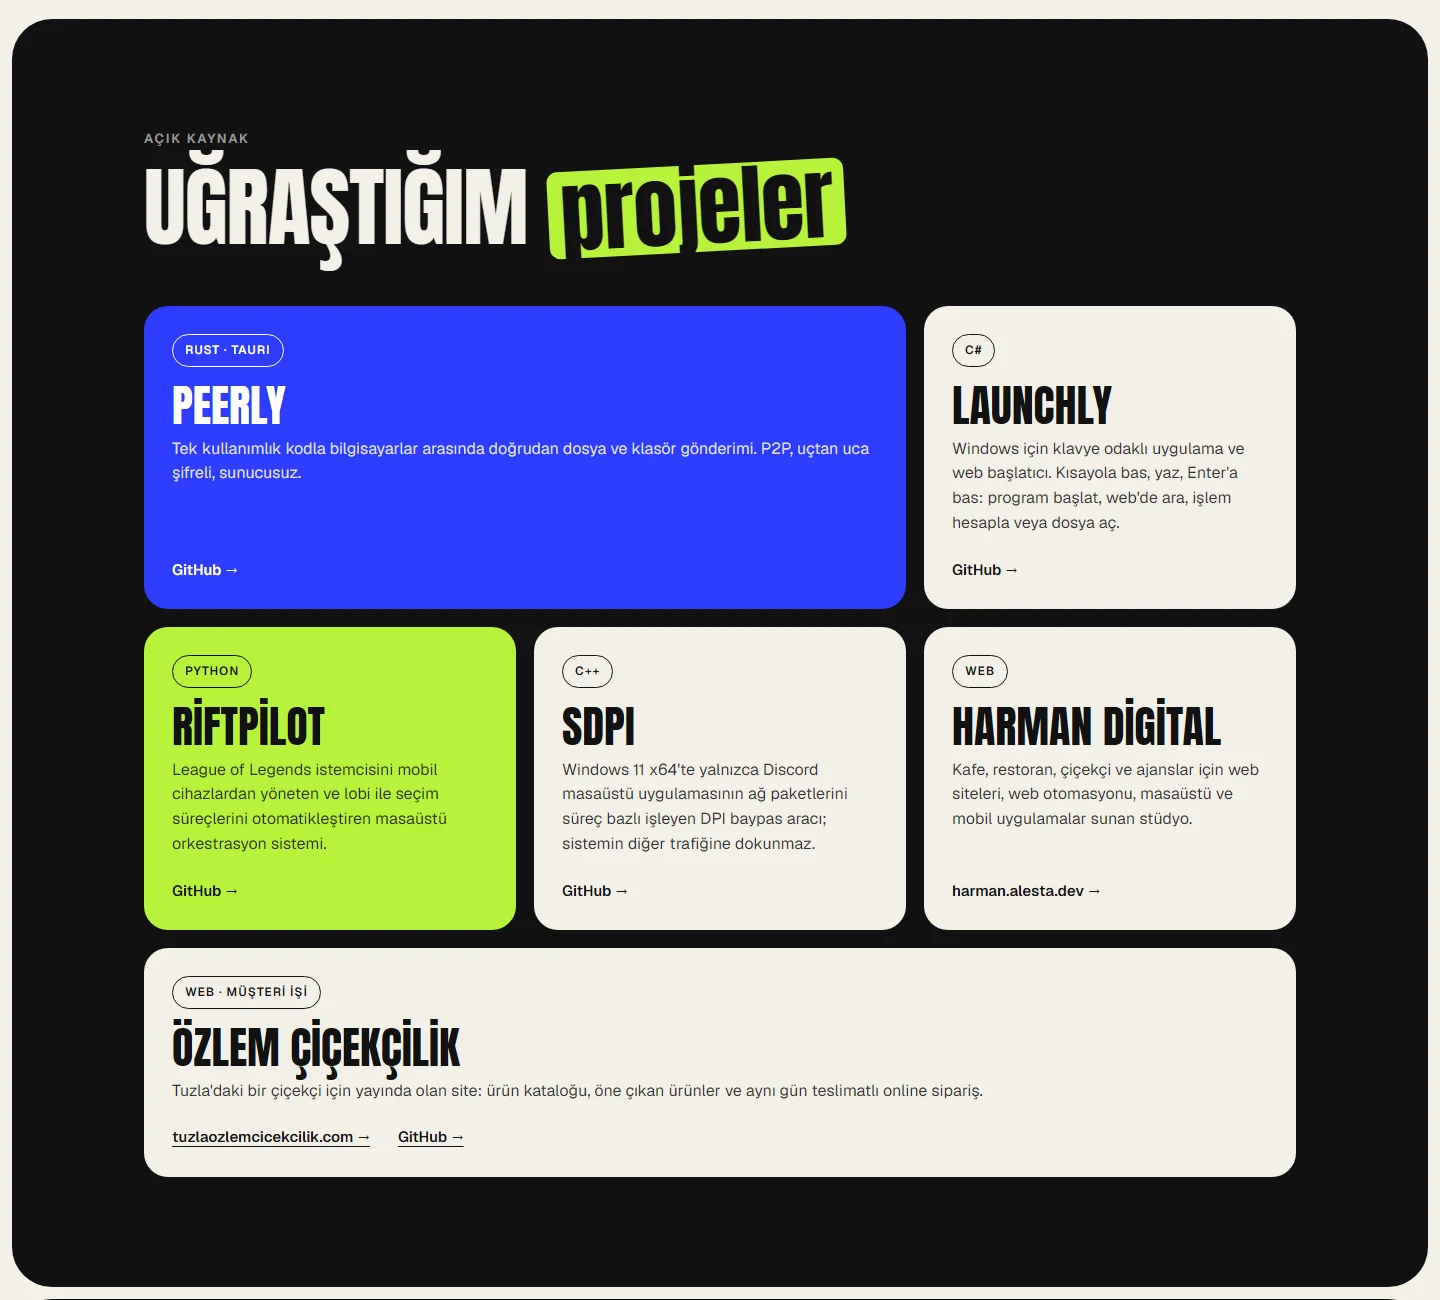
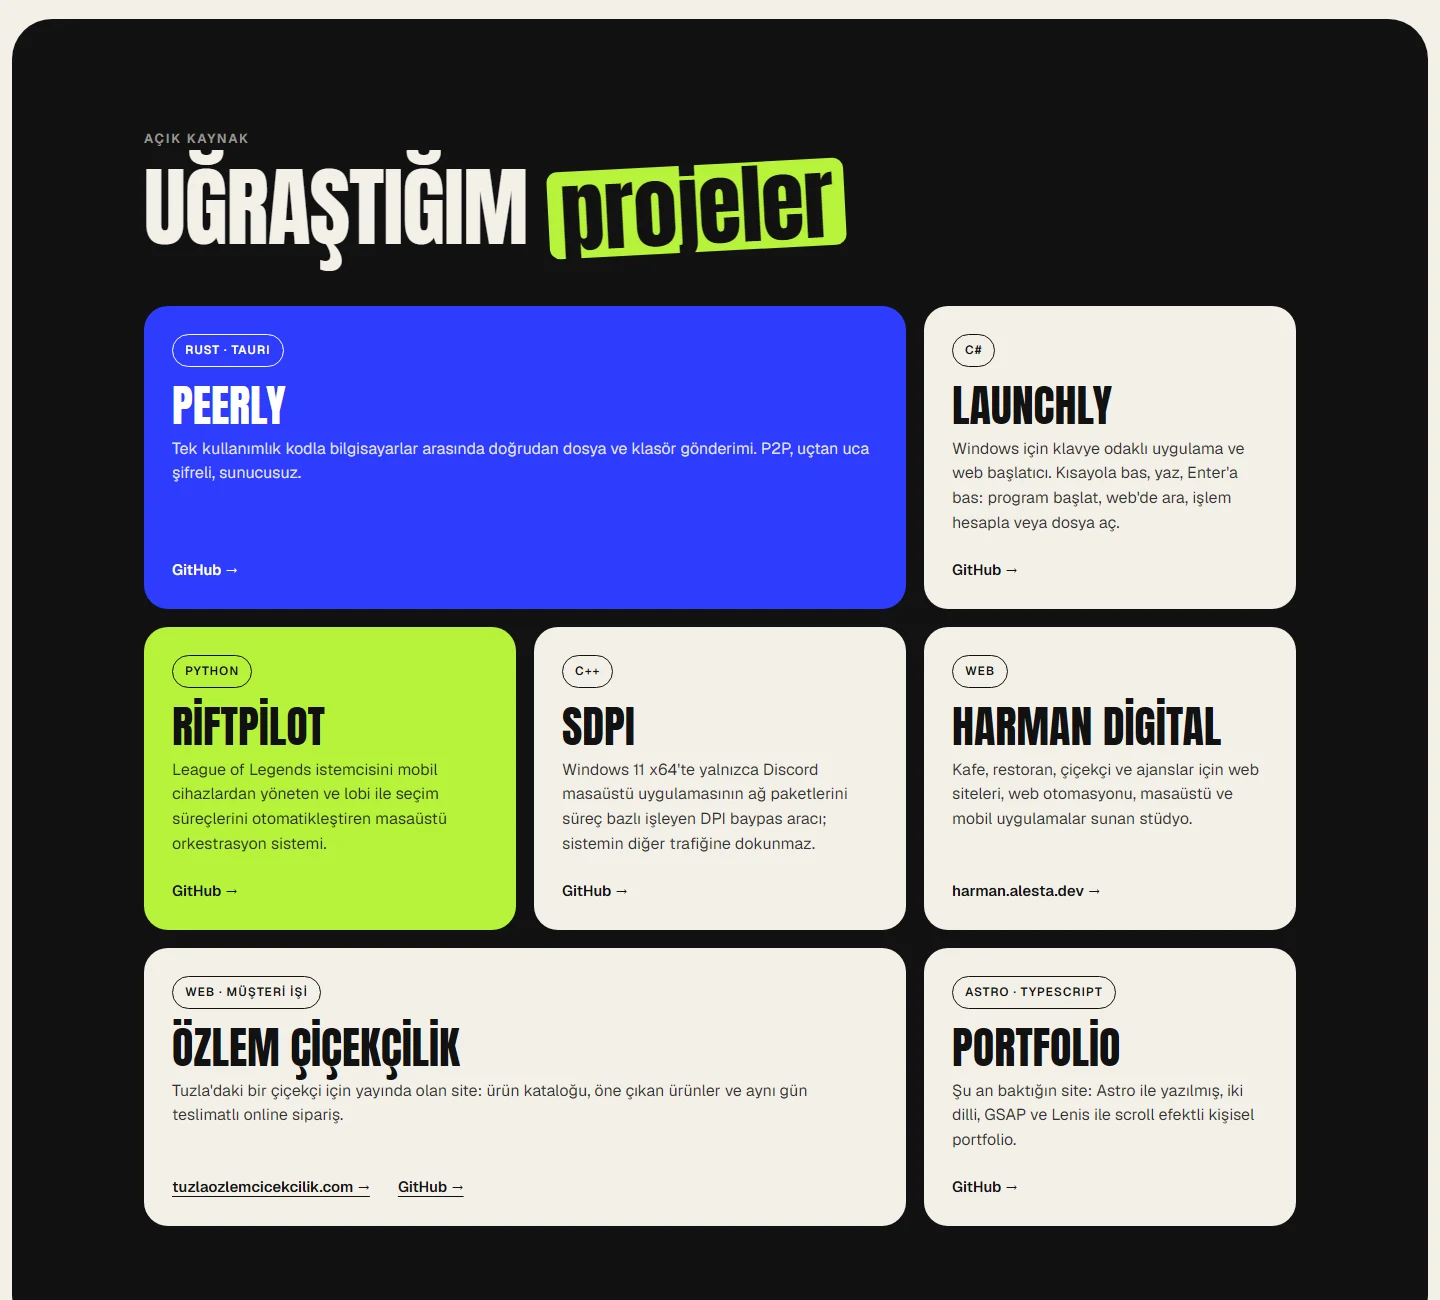
Projelere portfolio sitesini ekle
Özlem Çiçekçilik kartı iki sütuna indirildi, yanına Portfolio kartı geldi. README'deki projeler görseli yenilendi.

Changed region(s): [[0.0938, 0.7077, 0.9062, 0.9538], [0.0, 0.9538, 1.0, 1.0]]

diff --git a/src/data/projects.ts b/src/data/projects.ts
@@ -4,7 +4,7 @@ export interface Project {
   name: string;
   badge: string | Record<Lang, string>;
   href: string;
-  variant: "wide" | "pop" | "full" | "";
+  variant: "wide" | "pop" | "full" | "two" | "";
   /** Link label for non-GitHub projects (shown instead of the "GitHub →" text). */
   linkLabel?: string;
   /** Source repository, for projects whose main link is a live site. */
@@ -68,12 +68,22 @@ export const projects: Project[] = [
     name: "Özlem Çiçekçilik",
     badge: { tr: "Web · Müşteri işi", en: "Web · Client work" },
     href: "https://tuzlaozlemcicekcilik.com",
-    variant: "full",
+    variant: "two",
     linkLabel: "tuzlaozlemcicekcilik.com →",
     repo: "https://github.com/fvrhatb/ozlemcicekcilik",
     desc: {
       tr: "Tuzla'daki bir çiçekçi için yayında olan site: ürün kataloğu, öne çıkan ürünler ve aynı gün teslimatlı online sipariş.",
       en: "A live website for a florist in Tuzla, Istanbul: product catalogue, featured products and online ordering with same-day delivery.",
+    },
+  },
+  {
+    name: "Portfolio",
+    badge: "Astro · TypeScript",
+    href: "https://github.com/SametDrs/portfolio",
+    variant: "",
+    desc: {
+      tr: "Şu an baktığın site: Astro ile yazılmış, iki dilli, GSAP ve Lenis ile scroll efektli kişisel portfolio.",
+      en: "The site you are looking at: a bilingual personal portfolio built with Astro, with GSAP and Lenis scroll effects.",
     },
   },
 ];

diff --git a/src/styles/global.css b/src/styles/global.css
@@ -245,6 +245,7 @@ nav.nav .lang:hover { background: var(--cobalt); }
 .card.wide { grid-column: span 2; background: var(--cobalt); color: #fff; }
 .card.pop { background: var(--pop); }
 .card.full { grid-column: 1 / -1; min-height: 0; }
+.card.two { grid-column: span 2; }
 .card h3 { font-family: var(--display); font-weight: 400; font-size: 44px; text-transform: uppercase; line-height: 1; margin: 16px 0 10px; }
 .card p { font-size: 16px; opacity: 0.85; }
 .badge {
@@ -322,7 +323,7 @@ footer { text-align: center; padding: 30px 0 40px; color: var(--muted); font-siz
   .hero { padding-top: 104px; }
   .about, .grid, .stats, .skill-grid, .points { grid-template-columns: 1fr; }
   .about { gap: 28px; }
-  .card.wide, .card.full { grid-column: auto; }
+  .card.wide, .card.full, .card.two { grid-column: auto; }
   .about .text { padding-top: 0; }
   .dark { border-radius: 28px; margin: 0 8px; }
   .dark + .dark { margin-top: 8px; }
